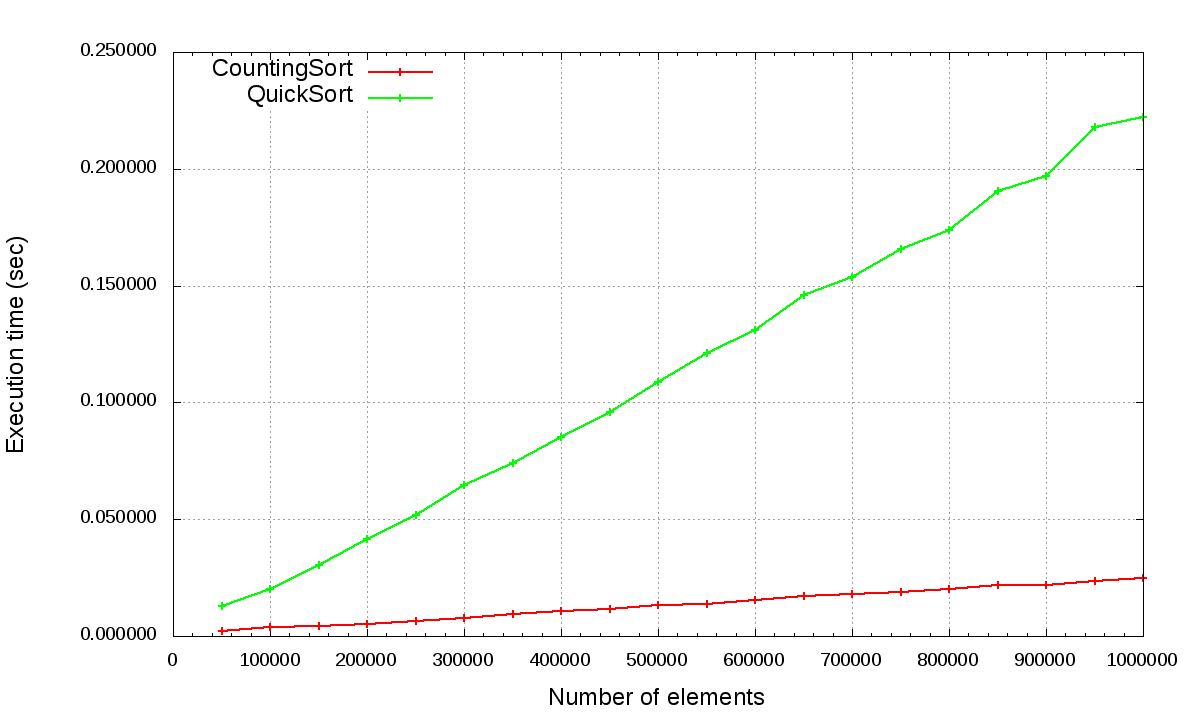
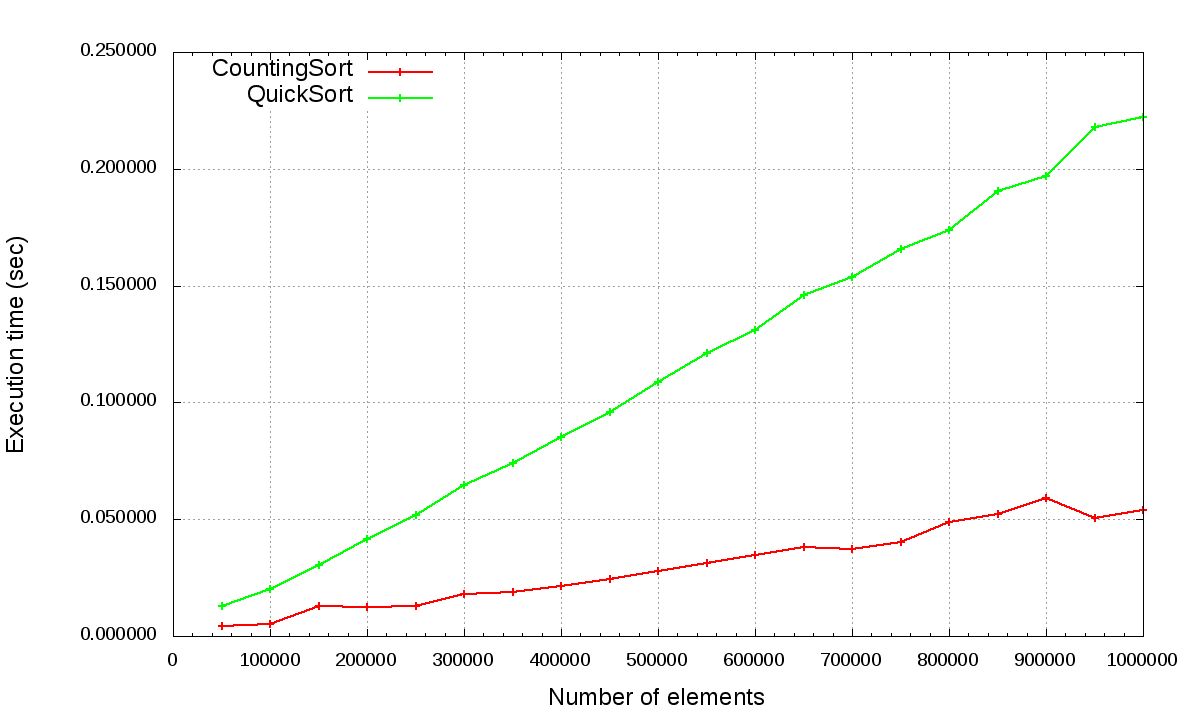
Stable version of Counting Sort + fixed important bugs

diff --git a/lab1/NSort.c b/lab1/NSort.c
@@ -7,35 +7,59 @@
 
 void CountingSort(uint32_t *array, int size) // Counting Sort
 {
-    uint32_t *count = (uint32_t *)malloc(size * sizeof(uint32_t));
+    int i, min = array[0], max = array[0];
+
+    for (i = 0; i < size; i++)
+    {
+        if (array[i] < min)
+        {
+            min = array[i];
+        }
+        if (array[i] > max)
+        {
+            max = array[i];
+        }
+    }
+
+    int csize = max - min + 1;
+
+    uint32_t *count = (uint32_t *)malloc((csize + 1) * sizeof(uint32_t));
     uint32_t *arraycopy = (uint32_t *)malloc(size * sizeof(uint32_t));
-  
+
     if (count == NULL || arraycopy == NULL)
     {
         printf("Error of memory allocation!\n");
         return EXIT_FAILURE;
     }
   
-    for (int i = 0; i < size; i++)
+    for (i = 0; i < csize + 1; i++)
     {
         count[i] = 0;
     }
   
-    for (int i = 0; i < size; i++)
+    for (i = 0; i < size; i++)
     {
-        count[array[i]] += 1;
+        count[array[i] - min + 1] += 1;
     }
-  
-    int x = 0;
-    for (int i = 0; i < size; i++)
+
+    for (i = 0; i < csize; i++)
     {
-        for (int j = 0; j < count[i]; j++)
-        {
-            arraycopy[x] = i;
-            x++;
-        }
+        count[i] += count[i - 1];
     }
+
+    for (i = size - 1; i >= 0; i--)
+    {
+        arraycopy[count[array[i] - min]] = array[i];
+        count[array[i] - min]++;
+    }
+
     free(count);
+
+    for (int i = 0; i < size; i++)
+    {
+        array[i] = arraycopy[i];
+    }
+    
     free(arraycopy);
 }
 
